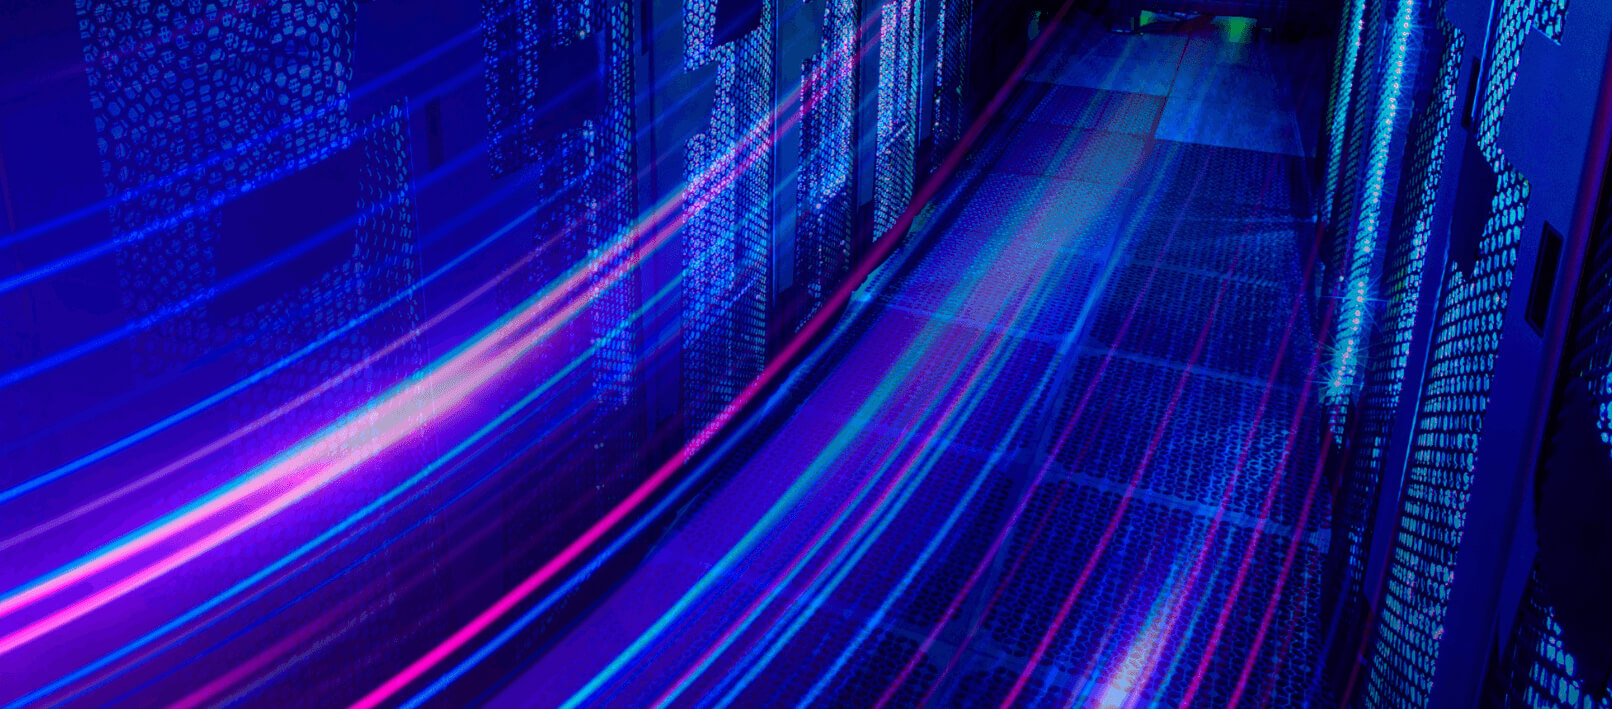
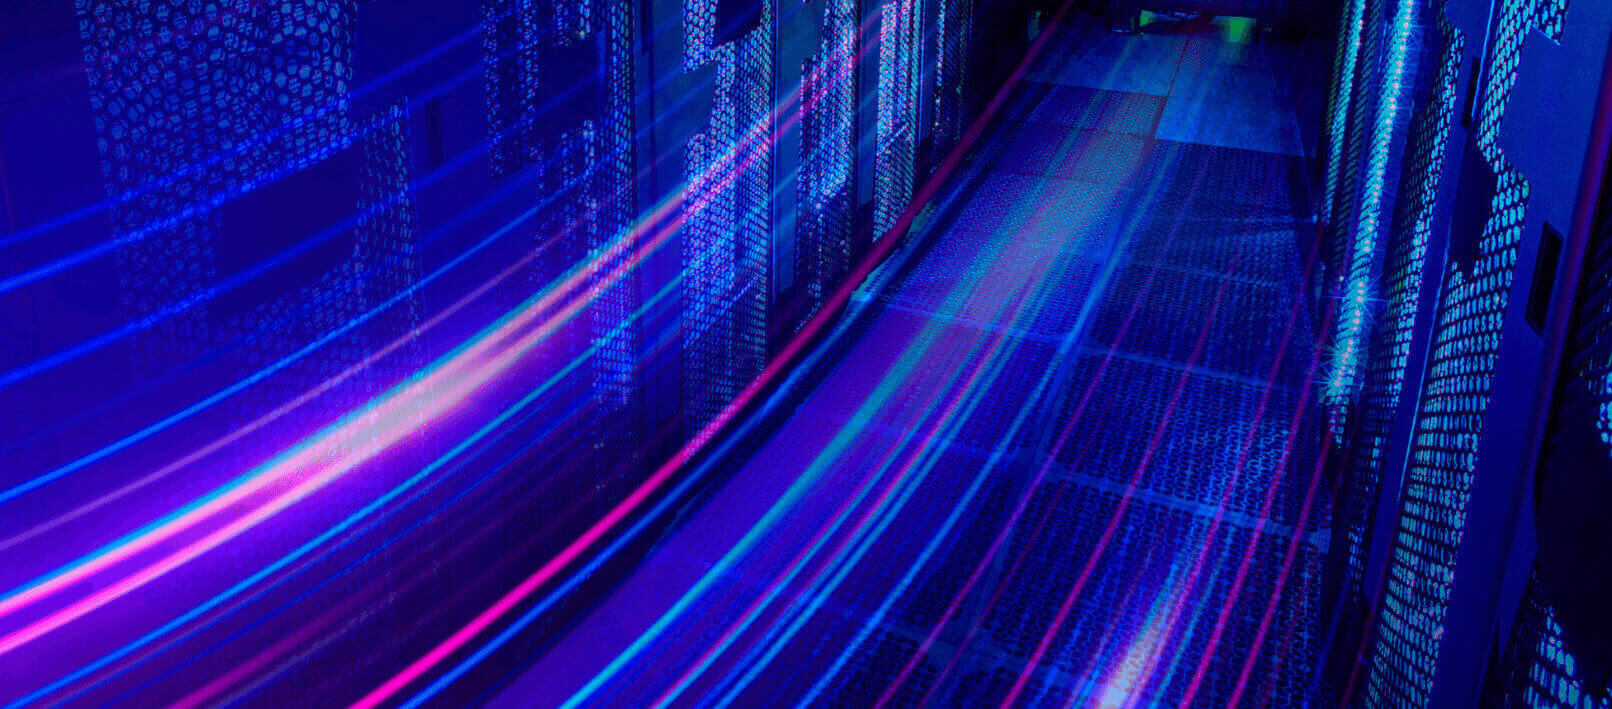
8i8i8i

diff --git a/en/datenschutz.html b/en/datenschutz.html
@@ -334,11 +334,11 @@
     <div class="container">
       <a class="navbar-brand company-name" href="index.html">Chumpol Trading Group Company Limited.</a>
       <div class="language-switcher-nav d-none d-lg-flex">
-        <a href="de/datenschutz.html" title="Deutsch"><img src="https://flagcdn.com/w20/de.png" alt="Deutsch"></a>
+        <a href="../de/datenschutz.html" title="Deutsch"><img src="https://flagcdn.com/w20/de.png" alt="Deutsch"></a>
         <a href="datenschutz.html" title="English" class="active"><img src="https://flagcdn.com/w20/gb.png" alt="English"></a>
       </div>
       <div class="language-switcher-nav d-lg-none">
-        <a href="de/datenschutz.html" title="Deutsch"><img src="https://flagcdn.com/w20/de.png" alt="Deutsch"></a>
+        <a href="../de/datenschutz.html" title="Deutsch"><img src="https://flagcdn.com/w20/de.png" alt="Deutsch"></a>
         <a href="datenschutz.html" title="English" class="active"><img src="https://flagcdn.com/w20/gb.png" alt="English"></a>
       </div>
       <button class="navbar-toggler" type="button" data-bs-toggle="collapse" data-bs-target="#navbarNav">

diff --git a/en/edi-gateway.html b/en/edi-gateway.html
@@ -334,11 +334,11 @@
     <div class="container">
       <a class="navbar-brand company-name" href="index.html">Chumpol Trading Group Company Limited.</a>
       <div class="language-switcher-nav d-none d-lg-flex">
-        <a href="de/edi-gateway.html" title="Deutsch"><img src="https://flagcdn.com/w20/de.png" alt="Deutsch"></a>
+        <a href="../de/edi-gateway.html" title="Deutsch"><img src="https://flagcdn.com/w20/de.png" alt="Deutsch"></a>
         <a href="edi-gateway.html" title="English" class="active"><img src="https://flagcdn.com/w20/gb.png" alt="English"></a>
       </div>
       <div class="language-switcher-nav d-lg-none">
-        <a href="de/edi-gateway.html" title="Deutsch"><img src="https://flagcdn.com/w20/de.png" alt="Deutsch"></a>
+        <a href="../de/edi-gateway.html" title="Deutsch"><img src="https://flagcdn.com/w20/de.png" alt="Deutsch"></a>
         <a href="edi-gateway.html" title="English" class="active"><img src="https://flagcdn.com/w20/gb.png" alt="English"></a>
       </div>
       <button class="navbar-toggler" type="button" data-bs-toggle="collapse" data-bs-target="#navbarNav">

diff --git a/en/impressum.html b/en/impressum.html
@@ -486,11 +486,11 @@
     <div class="container">
       <a class="navbar-brand company-name" href="index.html">Chumpol Trading Group Company Limited.</a>
       <div class="language-switcher-nav d-none d-lg-flex">
-        <a href="de/index.html" title="Deutsch"><img src="https://flagcdn.com/w20/de.png" alt="German flag"></a>
+        <a href="../de/index.html" title="Deutsch"><img src="https://flagcdn.com/w20/de.png" alt="German flag"></a>
         <a href="index.html" title="English" class="active"><img src="https://flagcdn.com/w20/gb.png" alt="British flag"></a>
       </div>
       <div class="language-switcher-nav d-lg-none">
-        <a href="de/index.html" title="Deutsch"><img src="https://flagcdn.com/w20/de.png" alt="German flag"></a>
+        <a href="../de/index.html" title="Deutsch"><img src="https://flagcdn.com/w20/de.png" alt="German flag"></a>
         <a href="index.html" title="English" class="active"><img src="https://flagcdn.com/w20/gb.png" alt="British flag"></a>
       </div>
       <button class="navbar-toggler" type="button" data-bs-toggle="collapse" data-bs-target="#navbarNav">

diff --git a/en/index.html b/en/index.html
@@ -486,11 +486,11 @@
     <div class="container">
       <a class="navbar-brand company-name" href="index.html">Chumpol Trading Group Company Limited.</a>
       <div class="language-switcher-nav d-none d-lg-flex">
-        <a href="de/index.html" title="Deutsch"><img src="https://flagcdn.com/w20/de.png" alt="German flag"></a>
+        <a href="../de/index.html" title="Deutsch"><img src="https://flagcdn.com/w20/de.png" alt="German flag"></a>
         <a href="index.html" title="English" class="active"><img src="https://flagcdn.com/w20/gb.png" alt="British flag"></a>
       </div>
       <div class="language-switcher-nav d-lg-none">
-        <a href="de/index.html" title="Deutsch"><img src="https://flagcdn.com/w20/de.png" alt="German flag"></a>
+        <a href="../de/index.html" title="Deutsch"><img src="https://flagcdn.com/w20/de.png" alt="German flag"></a>
         <a href="index.html" title="English" class="active"><img src="https://flagcdn.com/w20/gb.png" alt="British flag"></a>
       </div>
       <button class="navbar-toggler" type="button" data-bs-toggle="collapse" data-bs-target="#navbarNav">

diff --git a/en/partner.html b/en/partner.html
@@ -597,11 +597,11 @@
     <div class="container">
       <a class="navbar-brand company-name" href="index.html">Chumpol Trading Group Company Limited.</a>
       <div class="language-switcher-nav d-none d-lg-flex">
-        <a href="de/partner.html" title="Deutsch"><img src="https://flagcdn.com/w20/de.png" alt="Deutsch"></a>
+        <a href="../de/partner.html" title="Deutsch"><img src="https://flagcdn.com/w20/de.png" alt="Deutsch"></a>
         <a href="partner.html" title="English" class="active"><img src="https://flagcdn.com/w20/gb.png" alt="English"></a>
       </div>
       <div class="language-switcher-nav d-lg-none">
-        <a href="de/partner.html" title="Deutsch"><img src="https://flagcdn.com/w20/de.png" alt="Deutsch"></a>
+        <a href="../de/partner.html" title="Deutsch"><img src="https://flagcdn.com/w20/de.png" alt="Deutsch"></a>
         <a href="partner.html" title="English" class="active"><img src="https://flagcdn.com/w20/gb.png" alt="English"></a>
       </div>
       <button class="navbar-toggler" type="button" data-bs-toggle="collapse" data-bs-target="#navbarNav">

diff --git a/en/service.html b/en/service.html
@@ -386,11 +386,11 @@
     <div class="container">
       <a class="navbar-brand company-name" href="index.html">Chumpol Trading Group Company Limited.</a>
       <div class="language-switcher-nav d-none d-lg-flex">
-        <a href="de/service.html" title="Deutsch"><img src="https://flagcdn.com/w20/de.png" alt="Deutsch"></a>
+        <a href="../de/service.html" title="Deutsch"><img src="https://flagcdn.com/w20/de.png" alt="Deutsch"></a>
         <a href="service.html" title="English" class="active"><img src="https://flagcdn.com/w20/gb.png" alt="English"></a>
       </div>
       <div class="language-switcher-nav d-lg-none">
-        <a href="de/service.html" title="Deutsch"><img src="https://flagcdn.com/w20/de.png" alt="Deutsch"></a>
+        <a href="../de/service.html" title="Deutsch"><img src="https://flagcdn.com/w20/de.png" alt="Deutsch"></a>
         <a href="service.html" title="English" class="active"><img src="https://flagcdn.com/w20/gb.png" alt="English"></a>
       </div>
       <button class="navbar-toggler" type="button" data-bs-toggle="collapse" data-bs-target="#navbarNav">

diff --git a/en/agb.html b/en/agb.html
@@ -304,11 +304,11 @@
     <div class="container">
       <a class="navbar-brand company-name" href="index.html">Chumpol Trading Group Company Limited.</a>
       <div class="language-switcher-nav d-none d-lg-flex">
-        <a href="de/agb.html" title="Deutsch"><img src="https://flagcdn.com/w20/de.png" alt="Deutsch"></a>
+        <a href="../de/agb.html" title="Deutsch"><img src="https://flagcdn.com/w20/de.png" alt="Deutsch"></a>
         <a href="agb.html" title="English" class="active"><img src="https://flagcdn.com/w20/gb.png" alt="English"></a>
       </div>
       <div class="language-switcher-nav d-lg-none">
-        <a href="de/agb.html" title="Deutsch"><img src="https://flagcdn.com/w20/de.png" alt="Deutsch"></a>
+        <a href="../de/agb.html" title="Deutsch"><img src="https://flagcdn.com/w20/de.png" alt="Deutsch"></a>
         <a href="agb.html" title="English" class="active"><img src="https://flagcdn.com/w20/gb.png" alt="English"></a>
       </div>
       <button class="navbar-toggler" type="button" data-bs-toggle="collapse" data-bs-target="#navbarNav">

diff --git a/en/api-key.html b/en/api-key.html
@@ -369,7 +369,7 @@
       </a>
 
       <div class="language-switcher-nav d-none d-lg-flex">
-        <a href="de/api-key.html" title="Deutsch">
+        <a href="../de/api-key.html" title="Deutsch">
           <img src="https://flagcdn.com/w20/de.png" alt="Deutsch">
         </a>
         <a href="api-key.html" title="English" class="active">
@@ -378,7 +378,7 @@
       </div>
 
       <div class="language-switcher-nav d-lg-none">
-        <a href="de/api-key.html" title="Deutsch">
+        <a href="../de/api-key.html" title="Deutsch">
           <img src="https://flagcdn.com/w20/de.png" alt="Deutsch">
         </a>
         <a href="api-key.html" title="English" class="active">

diff --git a/css/main.css b/css/main.css
@@ -380,7 +380,7 @@ body > .row.contact.header-row {
 }
 
 body > .row > [class*='col-xs-'].column-5 {
-  background-image: url('../images/DesignTitel.jpeg');
+  background-image: url('/images/DesignTitel.jpeg');
   background-attachment: scroll;
   background-position: left top;
   background-clip: border-box;

diff --git a/de/css/main.css b/de/css/main.css
@@ -380,7 +380,7 @@ body > .row.contact.header-row {
 }
 
 body > .row > [class*='col-xs-'].column-5 {
-  background-image: url('../images/DesignTitel.jpeg');
+  background-image: url('/images/DesignTitel.jpeg');
   background-attachment: scroll;
   background-position: left top;
   background-clip: border-box;

diff --git a/ds/css/main.css b/ds/css/main.css
@@ -380,7 +380,7 @@ body > .row.contact.header-row {
 }
 
 body > .row > [class*='col-xs-'].column-5 {
-  background-image: url('../images/DesignTitel.jpeg');
+  background-image: url('/images/DesignTitel.jpeg');
   background-attachment: scroll;
   background-position: left top;
   background-clip: border-box;

diff --git a/en/css/main.css b/en/css/main.css
@@ -380,7 +380,7 @@ body > .row.contact.header-row {
 }
 
 body > .row > [class*='col-xs-'].column-5 {
-  background-image: url('../images/DesignTitel.jpeg');
+  background-image: url('/images/DesignTitel.jpeg');
   background-attachment: scroll;
   background-position: left top;
   background-clip: border-box;
